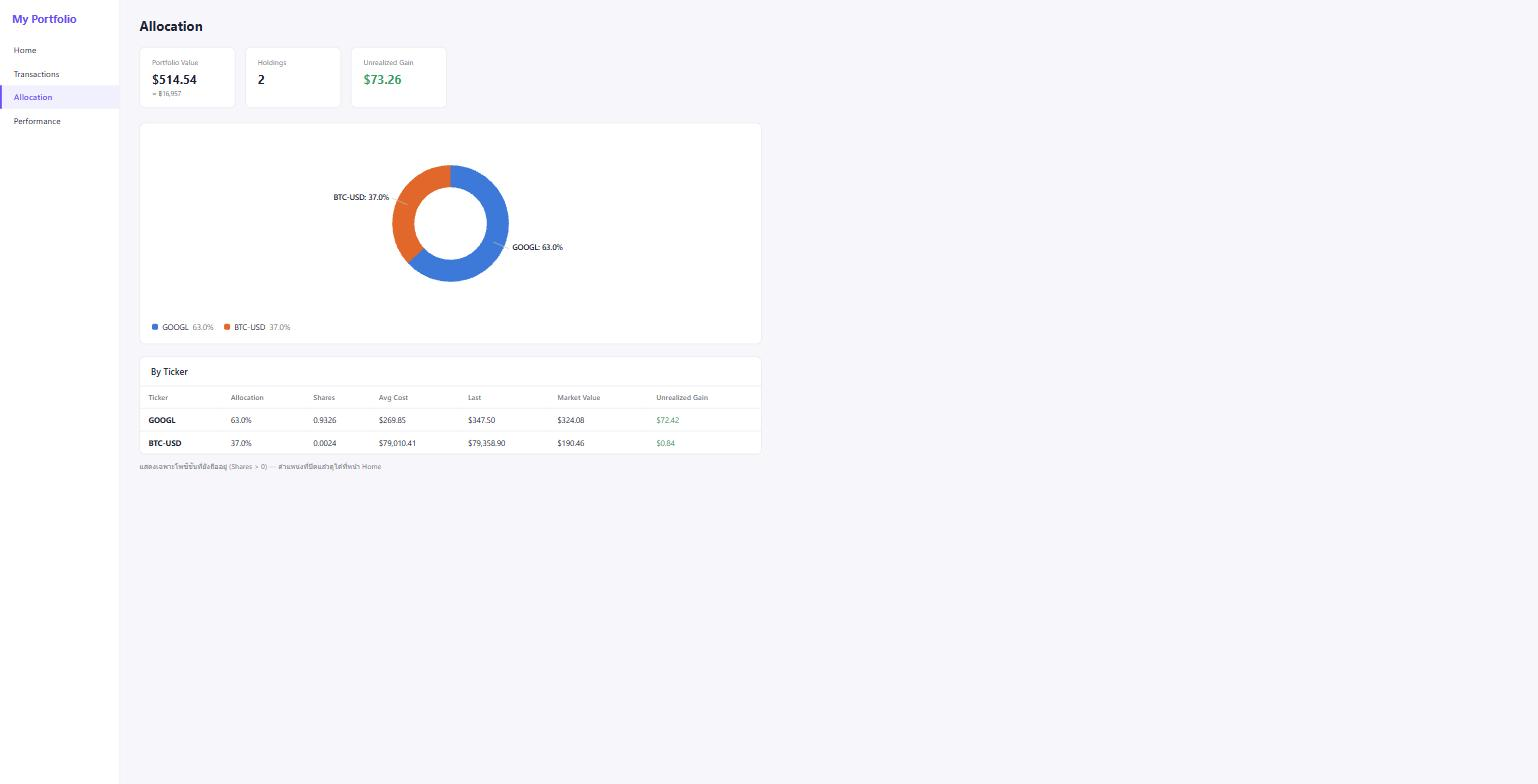
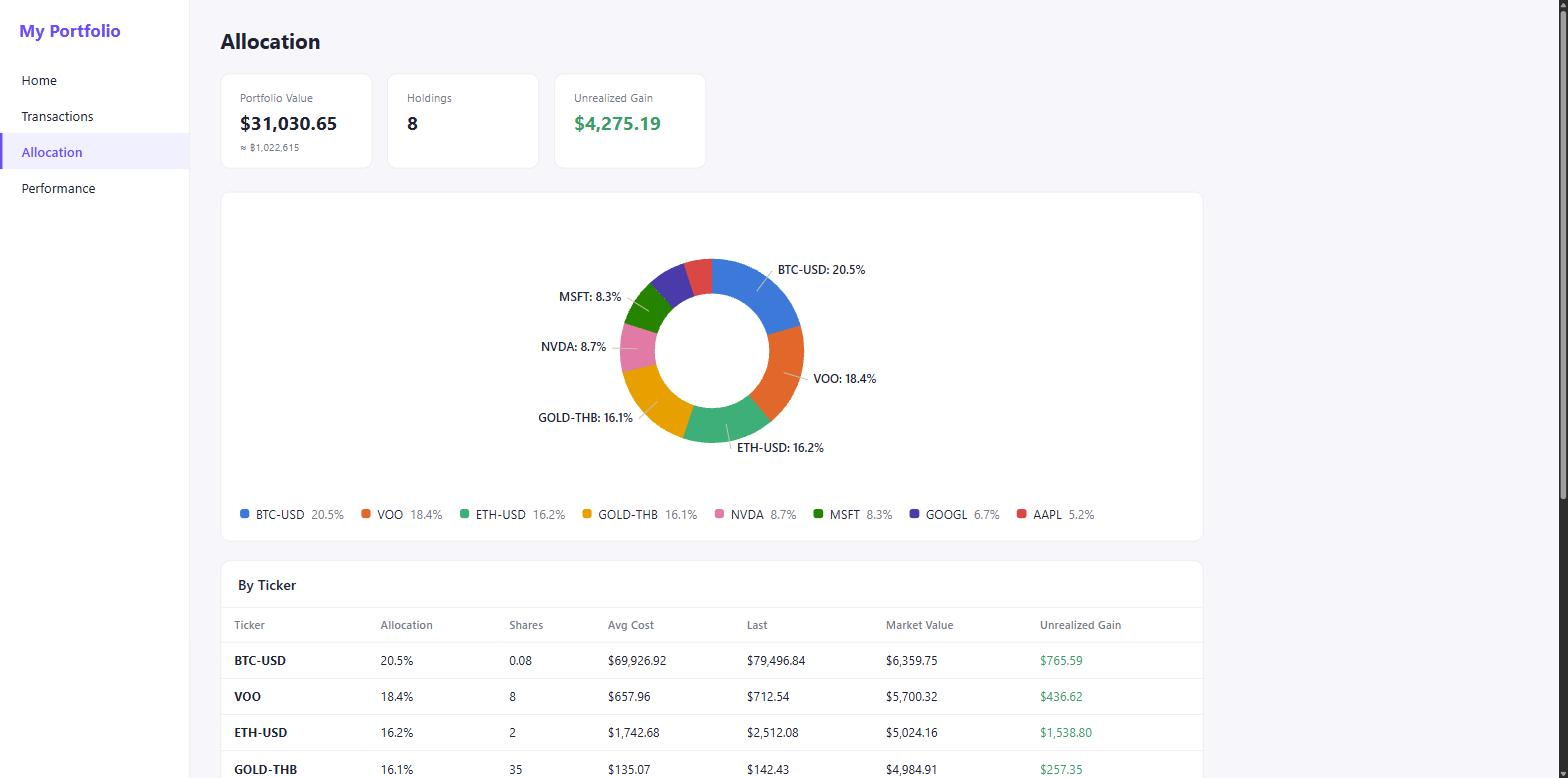
Rewrite README with usage guide per page, larger screenshots on sample data
- Screenshots recaptured at higher zoom for legibility, using a mock
  portfolio (stocks + ETF + crypto + Thai gold) instead of real holdings
- Add per-page usage instructions, incl. both Add Transaction tabs
- Add screenshot of the gold entry tab (grams + total paid)

Claude-Session: https://claude.ai/code/session_01D2zVPdhqc2HRZsiHwcDRnF

diff --git a/README.md b/README.md
@@ -1,37 +1,91 @@
 # My Portfolio
 
-เว็บพอร์ตส่วนตัว แทนที่ Portseido — Node server เปล่า (ไม่มี dependency ภายนอกเลย) + HTML/JS ธรรมดา ไม่มี framework ไม่มี build step Database คือไฟล์ `data/transactions.csv` ที่เปิดด้วย Excel ได้ตรงๆ
+เว็บพอร์ตส่วนตัว แทนที่ Portseido — Node server เปล่า (ไม่มี dependency ภายนอกเลย) + HTML/JS ธรรมดา ไม่มี framework ไม่มี build step ฐานข้อมูลคือไฟล์ `data/transactions.csv` ที่เปิดด้วย Excel ได้ตรงๆ
 
-## หน้าจอ
+รองรับทั้ง **หุ้น/ETF/คริปโต** (ดึงราคาจาก Yahoo Finance) และ **ทองคำไทย** (ราคาสมาคมค้าทองคำ กรอกเป็นกรัม) ในพอร์ตเดียวกัน พร้อมแปลงสกุลเงินให้อัตโนมัติ
 
-### Home — ภาพรวมพอร์ต
-![Home](docs/screenshots/home.jpg)
-
-### Transactions — CRUD ธุรกรรม พร้อม ticker autocomplete และ Import CSV
-![Transactions](docs/screenshots/transactions.jpg)
-
-### Allocation — สัดส่วนการลงทุนแบบโดนัท
-![Allocation](docs/screenshots/allocation.jpg)
-
-### Performance — TWR/MWR เทียบ S&P500 พร้อมกราฟและตาราง Historical Return
-![Performance](docs/screenshots/performance.jpg)
-
-## ฟีเจอร์หลัก
-
-- **Transactions**: เพิ่ม/แก้/ลบธุรกรรมได้ครบ, Import จาก CSV (map หัวคอลัมน์ยืดหยุ่น), Ticker พิมพ์แล้วค้นหาจริงจาก Yahoo Finance ให้อัตโนมัติ พร้อมรองรับทองคำดิจิทัลไทย (GOLD-THB) แยกแท็บกรอกเป็นกรัม/ยอดที่จ่าย
-- **Home**: มูลค่าพอร์ต, กำไรวันนี้, Unrealized Gain, Realized P&L ดึงราคาสดจาก Yahoo Finance
-- **Allocation**: สัดส่วนถือครองแบบโดนัท พร้อมตารางแยกตาม ticker
-- **Performance**: Time-Weighted Return (TWR) และ Money-Weighted Return (XIRR) เทียบกับ "ถ้าลงทุน S&P500 แทน" มีกราฟ, ตาราง period return, heatmap รายเดือน/ไตรมาส/ปี
-- **หลายสกุลเงิน**: แปลง THB→USD อัตโนมัติด้วยอัตราแลกเปลี่ยนย้อนหลังจริงของวันที่ทำธุรกรรม ไม่ใช่เรทวันนี้
+> ภาพหน้าจอทั้งหมดด้านล่างใช้ **ข้อมูลตัวอย่าง** ไม่ใช่พอร์ตจริง
 
 ## วิธีรัน
 
-ดับเบิลคลิก `start.bat` → เปิด `http://127.0.0.1:8787/` อัตโนมัติ (ต้องมี [Node.js](https://nodejs.org/) ติดตั้งไว้ก่อน ไม่ต้องรัน `npm install` เพราะไม่มี dependency)
+ต้องมี [Node.js](https://nodejs.org/) ติดตั้งไว้ก่อน (ไม่ต้องรัน `npm install` เพราะไม่มี dependency)
 
-โปรเจกต์นี้เริ่มต้นด้วยพอร์ตเปล่า — ข้อมูลธุรกรรมจริง (`data/transactions.csv`) ถูก gitignore ไว้ ไม่ได้อยู่ใน repo นี้ ครั้งแรกที่รันจะเห็นพอร์ตว่างเปล่า พร้อมให้กด "+ Add Transaction" เพิ่มรายการแรกได้เลย
+```
+ดับเบิลคลิก start.bat
+```
+
+เปิด `http://127.0.0.1:8787/` ให้อัตโนมัติ ครั้งแรกจะเป็นพอร์ตว่างเปล่า (ไฟล์ข้อมูลจริงถูก gitignore ไว้ ไม่ได้อยู่ใน repo) กด **+ Add Transaction** เพื่อเริ่มบันทึกรายการแรก
+
+---
+
+## หน้า Transactions — บันทึกธุรกรรม
+
+![Transactions](docs/screenshots/transactions.jpg)
+
+หน้าหลักที่ใช้กรอกข้อมูล ทุกอย่างเริ่มจากที่นี่ ตารางเลื่อนในตัวเองพร้อมหัวตารางติดบน ปุ่ม ✏ แก้ไข / 🗑 ลบ อยู่ขวาสุดของแต่ละแถว มีช่องค้นหา ticker ด้านบน
+
+**การเพิ่มรายการ** กด **+ Add Transaction** แล้วเลือกแท็บตามประเภทสินทรัพย์:
+
+![Add Transaction - แท็บทองไทย](docs/screenshots/add-gold.jpg)
+
+**แท็บ "หุ้น / คริปโต"**
+1. **Date** — วันที่ทำรายการจริง ไม่ใช่วันที่กรอก (ระบบใช้อัตราแลกเปลี่ยนของวันนั้นในการคำนวณ)
+2. **Ticker** — พิมพ์ชื่อย่อหรือชื่อบริษัทก็ได้ (เช่น พิมพ์ `alphabet` เจอ `GOOGL`) แล้วเลือกจากรายการที่เด้งขึ้นมา ตัวที่มีในพอร์ตอยู่แล้วจะมีป้าย "ในพอร์ต" กำกับ
+3. **Price** — ราคาต่อ 1 หน่วย **ไม่ใช่ยอดรวม** — ถ้าจำราคาไม่ได้ กดปุ่ม *"ดึงราคาปิดของวันที่เลือก"* ให้ดึงมาให้ (ถ้าวันนั้นตลาดปิดจะถอยไปใช้วันทำการก่อนหน้าให้เอง และบอกกำกับว่าเป็นค่าประมาณ)
+4. **Shares** — จำนวนหน่วย ใส่เศษหน่วยได้ (เช่น `0.0589`)
+5. **ยอดรวมที่จ่าย** *(ไม่บังคับ)* — ถ้ารู้แค่ว่าจ่ายไปเท่าไหร่ กรอกช่องนี้แทน ระบบจะหารเป็นราคาต่อหน่วยให้เอง
+
+**แท็บ "ทองไทย (GOLD-THB)"** — ตัดช่อง Ticker/Currency ออกให้เลย เหลือแค่ 2 ช่อง
+1. **จำนวนกรัม** — ตามที่แอปทองแสดง (เช่น `0.2`)
+2. **ยอดรวมที่จ่าย (บาท)** — ตัวเลขจากใบเสร็จ
+
+ระบบคำนวณราคาต่อกรัมให้อัตโนมัติ และแสดงราคาทองปัจจุบันไว้ด้านบนให้เทียบ
+
+**Import CSV** — นำเข้าทีละหลายรายการได้ รองรับชื่อหัวคอลัมน์หลายแบบ (`shares`/`qty`/`quantity`, `commission`/`fee`) มีหน้าตัวอย่างให้ตรวจก่อนยืนยัน และติ๊กรายการที่ซ้ำกับของเดิมออกให้อัตโนมัติ
+
+---
+
+## หน้า Home — ภาพรวมพอร์ต
+
+![Home](docs/screenshots/home.jpg)
+
+ดูสถานะพอร์ตรวมทั้งหมด ตัวเลข 4 ช่องบนสุด: **Portfolio Value** (มูลค่ารวม + แปลงเป็นบาทให้ด้วย), **Today** (กำไร/ขาดทุนวันนี้), **Unrealized Gain** (กำไรที่ยังไม่ได้ขาย), **Realized P&L** (กำไรที่ขายรับรู้แล้ว)
+
+ตารางด้านล่างแยกตาม ticker พร้อม Avg Cost, ราคาล่าสุด, มูลค่าตลาด — ราคาดึงสดจาก Yahoo Finance (cache 5 นาที)
+
+**สัญลักษณ์ที่อาจเจอ**
+- ⚠ ท้ายชื่อ ticker = มีรายการขายมากกว่าที่ซื้อไว้ในระบบ (น่าจะซื้อไว้ก่อนเริ่มบันทึก) ตัวเลข avg cost ของตัวนั้นจึงไม่ครบ
+- `N/A` = ดึงราคาไม่ได้ชั่วคราว, `-` = ปิดโพซิชันไปแล้ว (ถือ 0 หน่วย)
+
+---
+
+## หน้า Allocation — สัดส่วนการลงทุน
+
+![Allocation](docs/screenshots/allocation.jpg)
+
+ดูว่าเงินกระจายอยู่ที่ไหนบ้าง โดนัทแสดงสัดส่วนตามมูลค่าตลาดปัจจุบัน (ไม่ใช่ตามเงินที่ลงไป) แสดงเฉพาะโพซิชันที่ยังถืออยู่ ตัวที่ปิดไปแล้วดูได้ที่หน้า Home
+
+ถ้ามี ticker ที่ดึงราคาไม่ได้ จะมีข้อความบอกว่าไม่ได้รวมตัวไหนในกราฟ แต่ยังเห็นในตารางด้านล่าง
+
+---
+
+## หน้า Performance — ผลตอบแทน
+
+![Performance](docs/screenshots/performance.jpg)
+
+วัดผลตอบแทนจริงเทียบกับ S&P500
+
+- **TWR (Time-Weighted Return)** — ผลตอบแทนของการลงทุนล้วนๆ ไม่รวมผลจากจังหวะเติม/ถอนเงิน ใช้เทียบกับดัชนีได้ตรงๆ
+- **IRR / MWR** — ผลตอบแทนจริงของเงินคุณ รวมผลจังหวะเข้าออกด้วย
+- **กราฟ** — เทียบมูลค่าพอร์ตกับ "ถ้าเอาเงินก้อนเดียวกันไปลง S&P500 แทน" เลือกช่วงเวลาได้ (1M/3M/6M/YTD/1Y/3Y/5Y/All) เอาเมาส์ชี้ดูตัวเลขรายวันได้ กดลิงก์ *"แสดงเป็นตาราง"* ถ้าอยากดูเป็นตัวเลข
+- **Historical Return** — ตารางผลตอบแทนแยกรายเดือน/ไตรมาส/ปี ไล่สีเขียว-แดงตามกำไรขาดทุน
+
+---
 
 ## เทคสแตก
 
-Node.js `http` module ล้วนๆ (static file server + REST API, ไม่มี Express) ฝั่ง client เป็น vanilla JS แบบ IIFE namespace ต่อไฟล์ ไม่มี React/Vue ไม่มี bundler ราคาหุ้น/คริปโต/อัตราแลกเปลี่ยนดึงจาก Yahoo Finance และ frankfurter.dev ฝั่ง server (เลี่ยง CORS ไม่ต้องมี API key) ราคาทองคำไทยจาก [thai-gold-api](https://github.com/max180643/thai-gold-api)
+Node.js `http` module ล้วนๆ (static file server + REST API ไม่มี Express) ฝั่ง client เป็น vanilla JS แบบ IIFE namespace ต่อไฟล์ ไม่มี React/Vue ไม่มี bundler
 
-รายละเอียดการพัฒนา, บั๊กที่เจอและแก้ไป, ข้อจำกัดที่รู้อยู่แล้ว — ดูที่ [PROGRESS.md](PROGRESS.md)
+ราคาดึงจากฝั่ง server ทั้งหมดเพื่อเลี่ยง CORS และไม่ต้องใช้ API key เลย — [Yahoo Finance](https://finance.yahoo.com/) (ราคาหุ้น/คริปโต + ประวัติย้อนหลัง), [frankfurter.dev](https://frankfurter.dev/) (อัตราแลกเปลี่ยน ทั้งปัจจุบันและย้อนหลัง), [thai-gold-api](https://github.com/max180643/thai-gold-api) (ราคาทองคำไทย)
+
+รายละเอียดการพัฒนา บั๊กที่เจอและแก้ไป และข้อจำกัดที่รู้อยู่แล้ว — ดูที่ [PROGRESS.md](PROGRESS.md)
